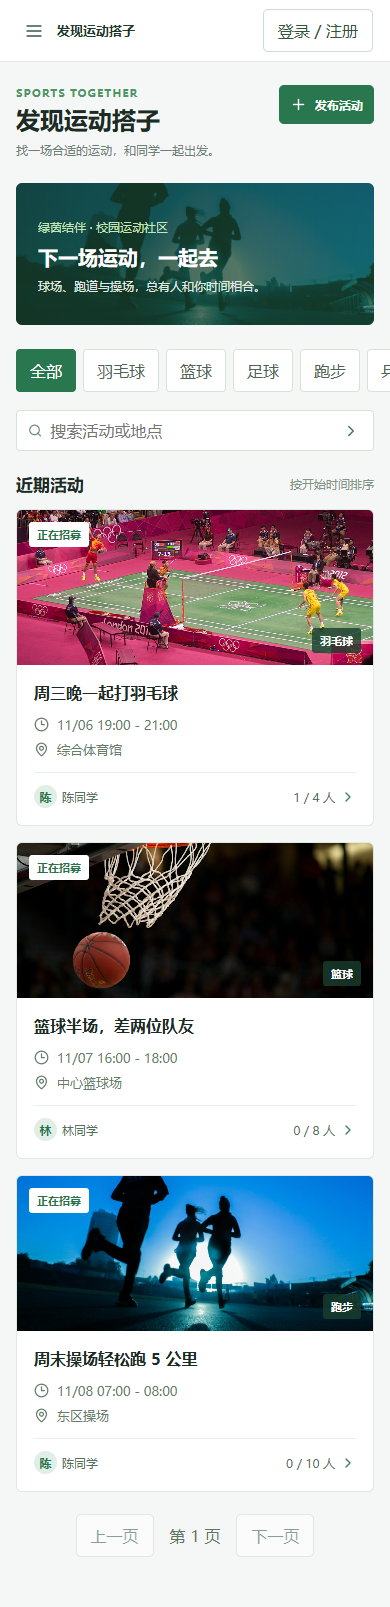
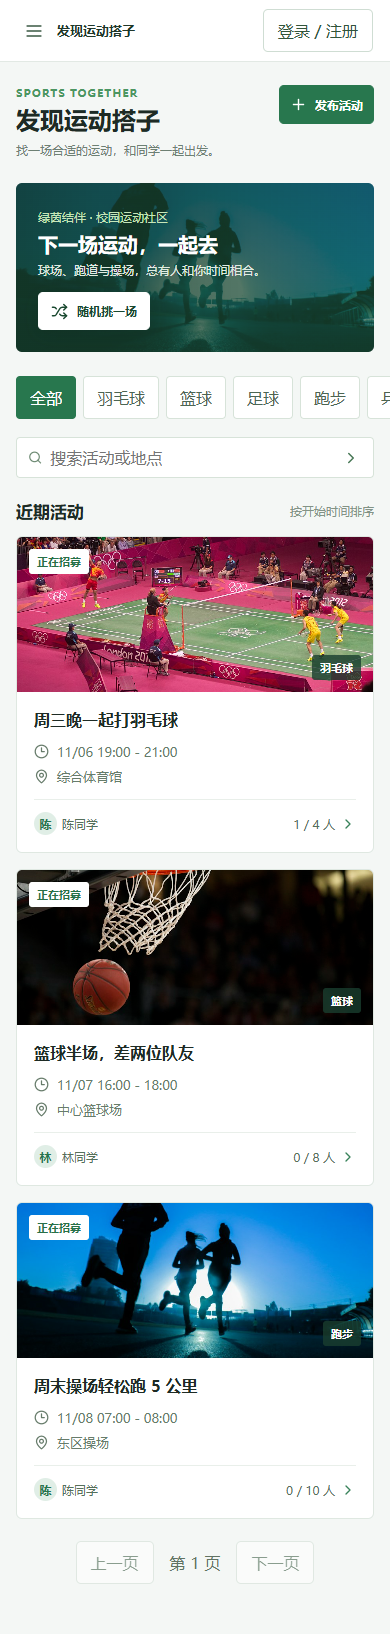
feat: add playful activity discovery

diff --git a/graduation-project-frontend/src/App.vue b/graduation-project-frontend/src/App.vue
@@ -4,7 +4,7 @@ import { useRoute, useRouter } from 'vue-router'
 import { useAuthStore } from './stores/auth.js'
 import { api } from './api.js'
 import { dateTime, isPast, isoLocal, localInput, sportImage, sports } from './format.js'
-import { Activity, ArrowLeft, CalendarDays, Check, ChevronRight, Clock3, Compass, LogOut, MapPin, Megaphone, Menu, MessageCircle, Pencil, Plus, Search, ShieldCheck, Trash2, UserRound, Users, X } from 'lucide-vue-next'
+import { Activity, ArrowLeft, CalendarDays, Check, ChevronRight, Clock3, Compass, LogOut, MapPin, Megaphone, Menu, MessageCircle, Pencil, Plus, Search, ShieldCheck, Shuffle, Trash2, UserRound, Users, X } from 'lucide-vue-next'
 
 const route = useRoute()
 const router = useRouter()
@@ -31,6 +31,8 @@ const noticeOpen = ref(false)
 const mineTab = ref('created')
 const filter = reactive({ keyword: '', sportType: '全部', page: 1, size: 9 })
 const hasMore = ref(false)
+const picking = ref(false)
+const lastPickedId = ref(null)
 const authForm = reactive({ username: '', password: '', nickname: '' })
 const profileForm = reactive({ nickname: '', phone: '', avatar: '' })
 const activityForm = reactive({ id: null, title: '', sportType: '羽毛球', venueId: '', description: '', startTime: '', endTime: '', maxPeople: 4 })
@@ -46,6 +48,31 @@ function message(text) { toast.value = text; clearTimeout(toastTimer); toastTime
 function fail(err) { error.value = err.message || '操作失败'; message(error.value) }
 function requireLogin() { if (!auth.token) { authMode.value = 'login'; authOpen.value = true; return false } return true }
 function clearError() { error.value = '' }
+function activityStatus(item) {
+  if (isPast(item.startTime)) return '已开始'
+  return item.joinedCount >= item.maxPeople ? '已满员' : '正在招募'
+}
+async function pickActivity() {
+  if (picking.value) return
+  picking.value = true
+  try {
+    const rows = await api.get('/activities', {
+      keyword: filter.keyword.trim() || undefined,
+      sportType: filter.sportType === '全部' ? undefined : filter.sportType,
+      page: 1,
+      size: 100
+    })
+    const available = (rows || []).filter(item => item.status === 'OPEN'
+      && !isPast(item.startTime)
+      && item.joinedCount < item.maxPeople
+      && item.publisherId !== auth.user?.id)
+    if (!available.length) return message('暂时没有可加入的活动，换个分类看看')
+    const choices = available.length > 1 ? available.filter(item => item.id !== lastPickedId.value) : available
+    const selected = choices[Math.floor(Math.random() * choices.length)]
+    lastPickedId.value = selected.id
+    await router.push(`/activities/${selected.id}`)
+  } catch (err) { fail(err) } finally { picking.value = false }
+}
 async function loadActivities() {
   loading.value = true; clearError()
   try {
@@ -183,11 +210,11 @@ onUnmounted(() => { window.removeEventListener('lvyin-unauthorized', unauthorize
       <main class="content">
         <template v-if="page === 'activities'">
           <div class="page-head"><div><p class="eyebrow">SPORTS TOGETHER</p><h1>发现运动搭子</h1><p>找一场合适的运动，和同学一起出发。</p></div><button class="primary-button" @click="openActivity()"><Plus :size="17" />发布活动</button></div>
-          <div class="feature-strip"><div><span class="strip-kicker">绿茵结伴 · 校园运动社区</span><h2>下一场运动，一起去</h2><p>球场、跑道与操场，总有人和你时间相合。</p></div></div>
+          <div class="feature-strip"><div><span class="strip-kicker">绿茵结伴 · 校园运动社区</span><h2>下一场运动，一起去</h2><p>球场、跑道与操场，总有人和你时间相合。</p></div><button class="surprise-button" :disabled="picking" @click="pickActivity"><Shuffle :size="17" />{{ picking ? '寻找中…' : '随机挑一场' }}</button></div>
           <div class="toolbar"><div class="sport-tabs"><button v-for="sport in sports" :key="sport" :class="{ selected: filter.sportType === sport }" @click="setSport(sport)">{{ sport }}</button></div><form class="search-box" @submit.prevent="searchActivities"><Search :size="17" /><input v-model="filter.keyword" placeholder="搜索活动或地点" aria-label="搜索活动或地点"><button title="搜索" type="submit"><ChevronRight :size="18" /></button></form></div>
           <div class="section-heading"><h2>近期活动</h2><span>按开始时间排序</span></div>
           <div v-if="loading" class="state-panel">正在加载活动…</div><div v-else-if="error" class="state-panel"><p>{{ error }}</p><button class="text-button" @click="loadActivities">重试</button></div><div v-else-if="!activities.length" class="state-panel"><Activity :size="30" /><h3>暂无符合条件的活动</h3><p>试试其他运动类型，或发布一场新的结伴活动。</p><button class="primary-button" @click="openActivity()"><Plus :size="16" />发布活动</button></div>
-          <div v-else class="activity-grid"><article v-for="item in activities" :key="item.id" class="activity-card" @click="router.push(`/activities/${item.id}`)"><div class="card-image" :style="{ backgroundImage: `url(${sportImage(item.sportType)})` }"><span class="status-label">{{ isPast(item.startTime) ? '已开始' : '正在招募' }}</span><span class="sport-label">{{ item.sportType }}</span></div><div class="card-content"><h3>{{ item.title }}</h3><p><Clock3 :size="15" />{{ dateTime(item.startTime) }} - {{ dateTime(item.endTime).split(' ').pop() }}</p><p><MapPin :size="15" />{{ item.venueName || '地点由发起人告知' }}</p><div class="card-footer"><span class="host-initial">{{ item.publisherName?.slice(0, 1) }}</span><span class="host-name">{{ item.publisherName }}</span><span class="spacer"></span><span>{{ item.joinedCount }} / {{ item.maxPeople }} 人</span><ChevronRight :size="16" /></div></div></article></div>
+          <div v-else class="activity-grid"><article v-for="item in activities" :key="item.id" class="activity-card" @click="router.push(`/activities/${item.id}`)"><div class="card-image" :style="{ backgroundImage: `url(${sportImage(item.sportType)})` }"><span class="status-label" :class="{ full: activityStatus(item) === '已满员', past: activityStatus(item) === '已开始' }">{{ activityStatus(item) }}</span><span class="sport-label">{{ item.sportType }}</span></div><div class="card-content"><h3>{{ item.title }}</h3><p><Clock3 :size="15" />{{ dateTime(item.startTime) }} - {{ dateTime(item.endTime).split(' ').pop() }}</p><p><MapPin :size="15" />{{ item.venueName || '地点由发起人告知' }}</p><div class="card-footer"><span class="host-initial">{{ item.publisherName?.slice(0, 1) }}</span><span class="host-name">{{ item.publisherName }}</span><span class="spacer"></span><span>{{ item.joinedCount }} / {{ item.maxPeople }} 人</span><ChevronRight :size="16" /></div></div></article></div>
           <div v-if="activities.length" class="pagination"><button class="outline-button" :disabled="filter.page === 1" @click="filter.page--; loadActivities()">上一页</button><span>第 {{ filter.page }} 页</span><button class="outline-button" :disabled="!hasMore" @click="filter.page++; loadActivities()">下一页</button></div>
         </template>
         <template v-else-if="page === 'detail'"><button class="back-link" @click="router.push('/activities')"><ArrowLeft :size="17" />返回活动列表</button><div v-if="loading" class="state-panel">正在加载活动…</div><div v-else-if="error" class="state-panel"><h3>{{ error }}</h3><button class="text-button" @click="loadDetail">重试</button></div><div v-else-if="detail" class="detail-layout"><div class="detail-main"><div class="detail-cover" :style="{ backgroundImage: `url(${sportImage(detail.sportType)})` }"></div><div class="detail-title-row"><div><div class="detail-tags"><span>{{ detail.sportType }}</span><span :class="{ dim: detail.status !== 'OPEN' }">{{ detail.status === 'OPEN' ? '正在招募' : '已取消' }}</span></div><h1>{{ detail.title }}</h1><p>由 {{ detail.publisherName }} 发布</p></div><div v-if="auth.user?.id === detail.publisherId && detail.status === 'OPEN'" class="detail-actions"><button class="outline-button" @click="openActivity(detail)"><Pencil :size="15" />编辑</button><button class="outline-button danger-text" @click="cancelActivity(detail)"><Trash2 :size="15" />取消活动</button></div></div><section class="plain-section"><h2>活动介绍</h2><p class="description">{{ detail.description || '发起人暂未填写活动介绍。' }}</p></section><section class="plain-section"><div class="section-heading"><h2>活动讨论</h2><span>{{ comments.length }} 条评论</span></div><div v-if="comments.length" class="comment-list"><div v-for="comment in comments" :key="comment.id" class="comment"><div class="comment-avatar">{{ comment.nickname?.slice(0, 1) }}</div><div><div class="comment-top"><strong>{{ comment.nickname }}</strong><span>{{ dateTime(comment.createdAt) }}</span><button v-if="auth.user?.id === comment.userId" title="删除评论" @click="deleteComment(comment)"><Trash2 :size="15" /></button></div><p>{{ comment.content }}</p></div></div></div><p v-else class="empty-inline">还没有评论。</p><form class="comment-form" @submit.prevent="submitComment"><textarea v-model="commentText" maxlength="500" placeholder="说说你的想法…" aria-label="评论内容" required></textarea><button class="primary-button" :disabled="saving || !commentText.trim()"><MessageCircle :size="16" />发布评论</button></form></section></div><aside class="detail-side"><h2>活动信息</h2><div class="info-line"><span><CalendarDays :size="16" />活动时间</span><strong>{{ dateTime(detail.startTime) }} - {{ dateTime(detail.endTime).split(' ').pop() }}</strong></div><div class="info-line"><span><MapPin :size="16" />集合地点</span><strong>{{ detail.venueName || '地点由发起人告知' }}</strong></div><div class="info-line"><span><UserRound :size="16" />发起人</span><strong>{{ detail.publisherName }}</strong></div><div class="info-line"><span><Users :size="16" />报名人数</span><strong>{{ detail.joinedCount }} / {{ detail.maxPeople }} 人</strong><div class="capacity"><i :style="{ width: `${Math.min(100, detail.joinedCount / detail.maxPeople * 100)}%` }"></i></div><small>剩余 {{ Math.max(0, detail.maxPeople - detail.joinedCount) }} 个名额</small></div><button v-if="detail.status === 'OPEN' && !isPast(detail.startTime) && auth.user?.id !== detail.publisherId" class="primary-button wide" :class="{ secondary: joinedIds.has(detail.id) }" :disabled="saving || (!joinedIds.has(detail.id) && detail.joinedCount >= detail.maxPeople)" @click="toggleJoin(detail)"><Check v-if="joinedIds.has(detail.id)" :size="17" /><Plus v-else :size="17" />{{ joinedIds.has(detail.id) ? '取消报名' : detail.joinedCount >= detail.maxPeople ? '人数已满' : '加入这场运动' }}</button><p v-else class="side-note">{{ auth.user?.id === detail.publisherId ? '这是你发布的活动' : detail.status !== 'OPEN' ? '活动已取消' : '活动已开始' }}</p></aside></div></template>

diff --git a/graduation-project-frontend/src/playful.css b/graduation-project-frontend/src/playful.css
@@ -1,0 +1,12 @@
+.feature-strip { height: auto; min-height: 164px; justify-content: space-between; gap: 24px; }
+.feature-strip > div { min-width: 0; }
+.surprise-button { display: inline-flex; align-items: center; justify-content: center; gap: 9px; flex: none; min-height: 44px; padding: 10px 16px; color: #19482f; background: #fff; border: 1px solid #fff; border-radius: 5px; font-weight: 700; white-space: nowrap; box-shadow: 0 4px 18px #071e1829; transition: transform .18s, box-shadow .18s; }
+.surprise-button:hover:not(:disabled) { transform: translateY(-2px); box-shadow: 0 7px 20px #071e1840; }
+.surprise-button:focus-visible { outline: 3px solid #ade47e; outline-offset: 3px; }
+.status-label.full { color: #a14f26; background: #fff0e5; }
+.status-label.past { color: #5c6a61; background: #edf1ee; }
+@media (max-width: 760px) {
+  .feature-strip { min-height: 142px; flex-wrap: wrap; align-content: center; gap: 14px; }
+  .feature-strip h2 { margin: 5px 0; }
+  .surprise-button { min-height: 38px; padding: 8px 12px; font-size: 12px; }
+}

diff --git a/graduation-project-frontend/src/main.js b/graduation-project-frontend/src/main.js
@@ -3,5 +3,6 @@ import { createPinia } from 'pinia'
 import App from './App.vue'
 import router from './router.js'
 import './style.css'
+import './playful.css'
 
 createApp(App).use(createPinia()).use(router).mount('#app')

diff --git a/毕设操作详细日志.md b/毕设操作详细日志.md
@@ -101,3 +101,10 @@
 
 - 核对当前前端 `http://localhost:5173/activities` 和后端 `/api/system/health` 均返回 HTTP 200，MySQL `mysql8.0` 服务运行中。
 - 核对本机 JDK、Maven、Node 实际路径以及页面入口、演示账号、数据库表结构，编写 `毕设系统自测操作手册.md`，涵盖无需 IDEA 的启动方式、学生与管理员自测流程、Navicat 对照及常见问题。
+
+## 2026-11-04：前端活动发现交互优化
+
+1. 在活动页展示“随机挑一场”按钮，调用现有活动搜索接口，沿用当前运动分类和关键词，仅从未开始、仍有空位且非本人发布的活动中随机挑选；无候选活动时给出提示。
+2. 活动卡片根据时间和报名人数显示“正在招募”“已满员”“已开始”，并为状态增加区分颜色。调整顶部横幅布局，让按钮在手机与桌面宽度均可见。
+3. 更新浏览器自动化验证：按羽毛球筛选后随机进入详情，确认运动类型正确；检查 390 像素手机宽度无横向溢出并重新截取桌面、手机页面。
+4. 执行 `npm run build` 与 `npm run smoke` 均成功；测试脚本创建的临时记录已清理。前端与后端服务保持运行。

diff --git a/毕设系统自测操作手册.md b/毕设系统自测操作手册.md
@@ -54,7 +54,7 @@ cd /d "F:\LiCr\graduation project\graduation-project-frontend"
 
 ### 1. 游客浏览
 
-打开“发现活动”，点击“羽毛球”“篮球”等分类，使用搜索框输入标题关键词；点一张活动卡片查看详情。再查看左侧“运动场地”“校园公告”。这些页面不需要登录。
+打开“发现活动”，点击“羽毛球”“篮球”等分类，使用搜索框输入标题关键词；点一张活动卡片查看详情。也可在活动页点“随机挑一场”，系统会按当前分类和搜索词随机打开一场未开始且有名额的活动；没有符合条件的活动时会提示换个分类。活动卡片区分“正在招募”“已满员”“已开始”。再查看左侧“运动场地”“校园公告”。这些页面不需要登录。
 
 ### 2. 学生登录、发布与修改
 

diff --git a/README.md b/README.md
@@ -27,6 +27,8 @@ Spring Boot + Vue 3 毕业设计项目。
 
 前端包含活动发现与搜索、活动详情、发布/编辑/取消、报名/取消报名、评论、我的活动、场地、公告、个人资料，以及管理员场地和公告管理。没有创建前端专用数据库表。
 
+活动页增加“随机挑一场”：按当前运动分类和搜索词，从未开始且仍有名额的活动中随机进入一场；活动卡片会区分招募中、已满员和已开始。
+
 本机演示账号：学生 `demo_chen` / `123456`、`demo_lin` / `123456`。部署到公开环境前应更换所有演示账号密码，或不执行演示数据脚本。
 
 前端构建：在前端目录执行 `npm run build`。已有演示数据时可执行 `npm run smoke` 做浏览器流程验证；脚本会清理它创建的临时数据。
